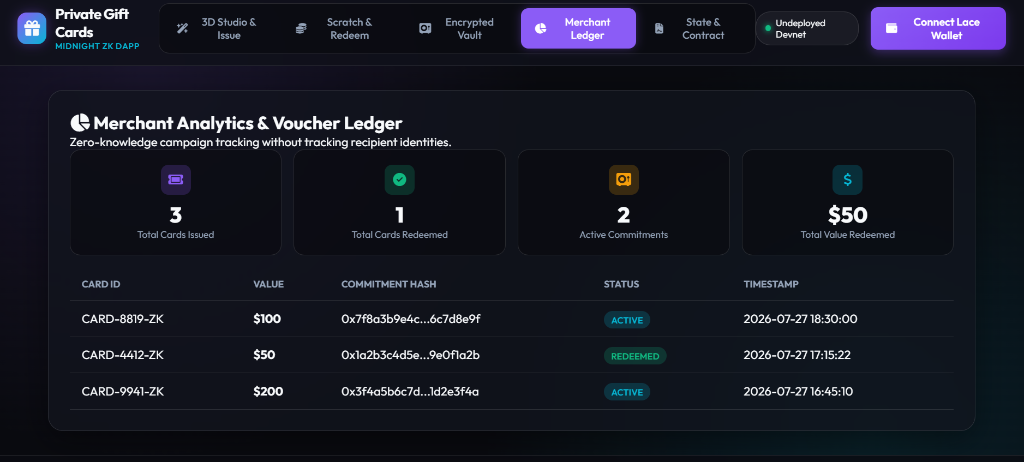
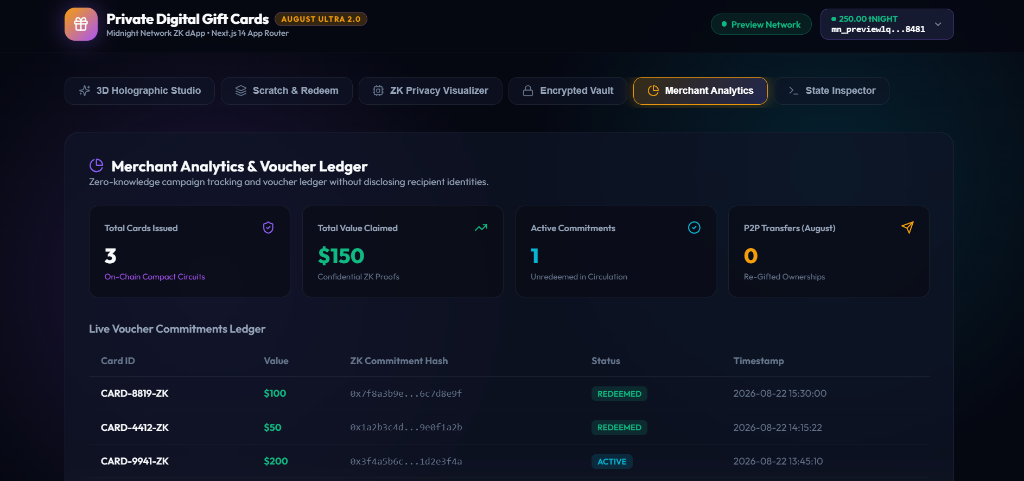
docs: update Merchant Analytics & Voucher Ledger screenshot and heading

diff --git a/README.md b/README.md
@@ -37,8 +37,8 @@
 ### 4. Encrypted Gift Card Vault
 ![Encrypted Gift Card Vault](assets/03-encrypted-vault.png)
 
-### 5. Merchant Analytics Ledger
-![Merchant Ledger](assets/04-merchant-ledger.png)
+### 5. Merchant Analytics & Voucher Ledger
+![Merchant Analytics & Voucher Ledger](assets/04-merchant-ledger.png)
 
 ### 6. Midnight Smart Contract Inspector
 ![State & Contract Inspector](assets/05-state-contract.png)
